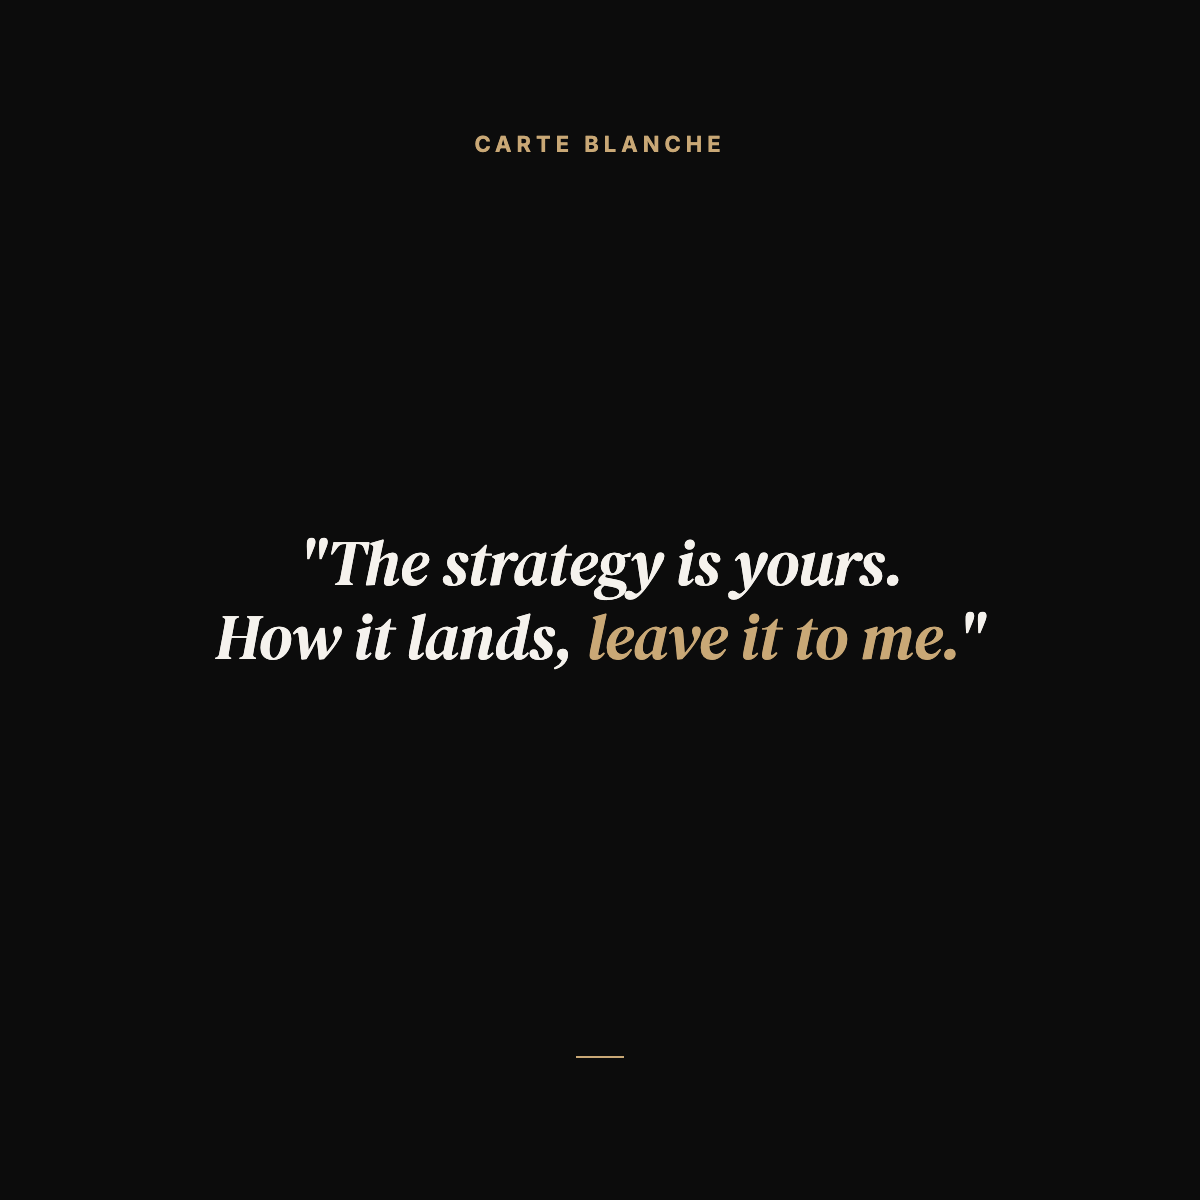
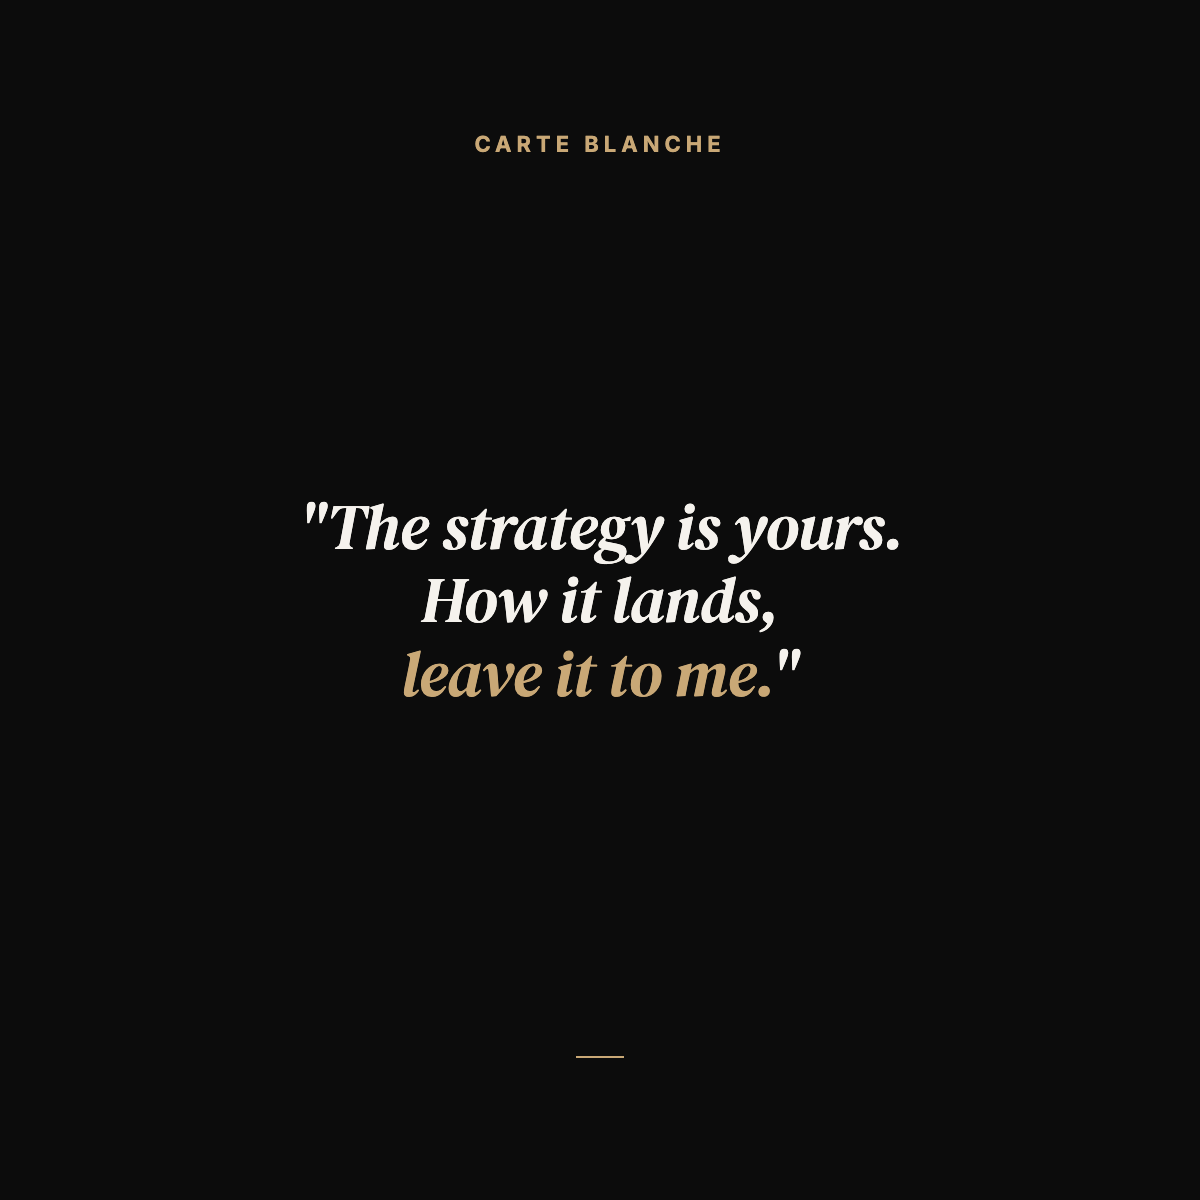
Strategy pin: 3-line break for safer mobile crop; add Hyperstition #01 newsletter cover

Changed region(s): [[0.185, 0.4008, 0.8017, 0.5858], [0.8017, 0.4933, 0.8325, 0.5242]]

diff --git a/newsletter-hyperstition-01.html b/newsletter-hyperstition-01.html
@@ -1,0 +1,98 @@
+<!DOCTYPE html>
+<html>
+<head>
+<meta charset="UTF-8">
+<link href="https://fonts.googleapis.com/css2?family=Inter:wght@400;500;600;700;800;900&family=DM+Serif+Display:ital@0;1&display=swap" rel="stylesheet">
+<style>
+* { margin: 0; padding: 0; box-sizing: border-box; }
+html, body { width: 1280px; height: 720px; }
+body {
+    background: #0c0c0c;
+    font-family: 'Inter', sans-serif;
+    overflow: hidden;
+    position: relative;
+}
+
+/* Subtle warm light radial upper-right */
+body::before {
+    content: '';
+    position: absolute;
+    top: -260px;
+    right: -260px;
+    width: 720px;
+    height: 720px;
+    background: radial-gradient(circle, rgba(201,168,118,0.10) 0%, rgba(201,168,118,0.04) 35%, transparent 65%);
+    pointer-events: none;
+}
+
+.eyebrow {
+    position: absolute;
+    top: 80px;
+    left: 0;
+    right: 0;
+    text-align: center;
+    font-size: 12px;
+    font-weight: 600;
+    letter-spacing: 4.5px;
+    text-transform: uppercase;
+    color: #c9a876;
+}
+
+.hero {
+    position: absolute;
+    top: 50%;
+    left: 0;
+    right: 0;
+    transform: translateY(-50%);
+    text-align: center;
+}
+
+.title {
+    font-size: 76px;
+    font-weight: 800;
+    line-height: 1.02;
+    letter-spacing: -2.2px;
+    text-transform: uppercase;
+    color: #f5f2ed;
+}
+
+.title .gold { color: #c9a876; }
+
+.divider {
+    width: 60px;
+    height: 1px;
+    background: #c9a876;
+    margin: 38px auto 26px;
+}
+
+.sub {
+    font-family: 'DM Serif Display', Georgia, serif;
+    font-style: italic;
+    font-size: 22px;
+    line-height: 1.55;
+    color: #c8c3bc;
+    font-weight: 400;
+}
+
+.signature {
+    position: absolute;
+    bottom: 60px;
+    right: 80px;
+    font-size: 10px;
+    font-weight: 600;
+    letter-spacing: 3px;
+    text-transform: uppercase;
+    color: #c8c3bc;
+}
+</style>
+</head>
+<body>
+    <div class="eyebrow">Hyperstition · 01</div>
+    <div class="hero">
+        <div class="title">The Grammar<br>That Kills<br><span class="gold">The Future</span></div>
+        <div class="divider"></div>
+        <div class="sub">Future tense plants doubt.<br>Present tense plants reality.</div>
+    </div>
+    <div class="signature">by Carte Blanche</div>
+</body>
+</html>

diff --git a/linkedin-pin-strategy.html b/linkedin-pin-strategy.html
@@ -79,7 +79,7 @@ body {
         <div class="brand">Carte Blanche</div>
     </div>
     <div class="center">
-        <div class="quote">"The strategy is yours.<br>How it lands, <span class="gold">leave it to me.</span>"</div>
+        <div class="quote">"The strategy is yours.<br>How it lands,<br><span class="gold">leave it to me.</span>"</div>
     </div>
     <div class="bottom">
         <div class="divider"></div>
